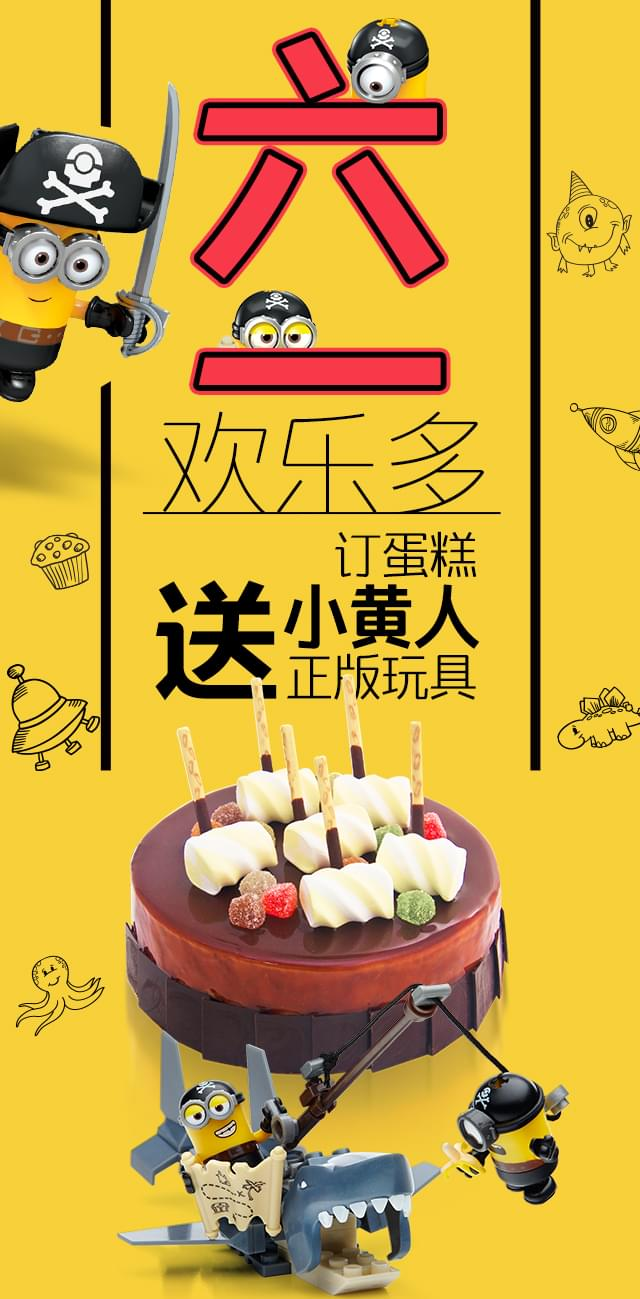
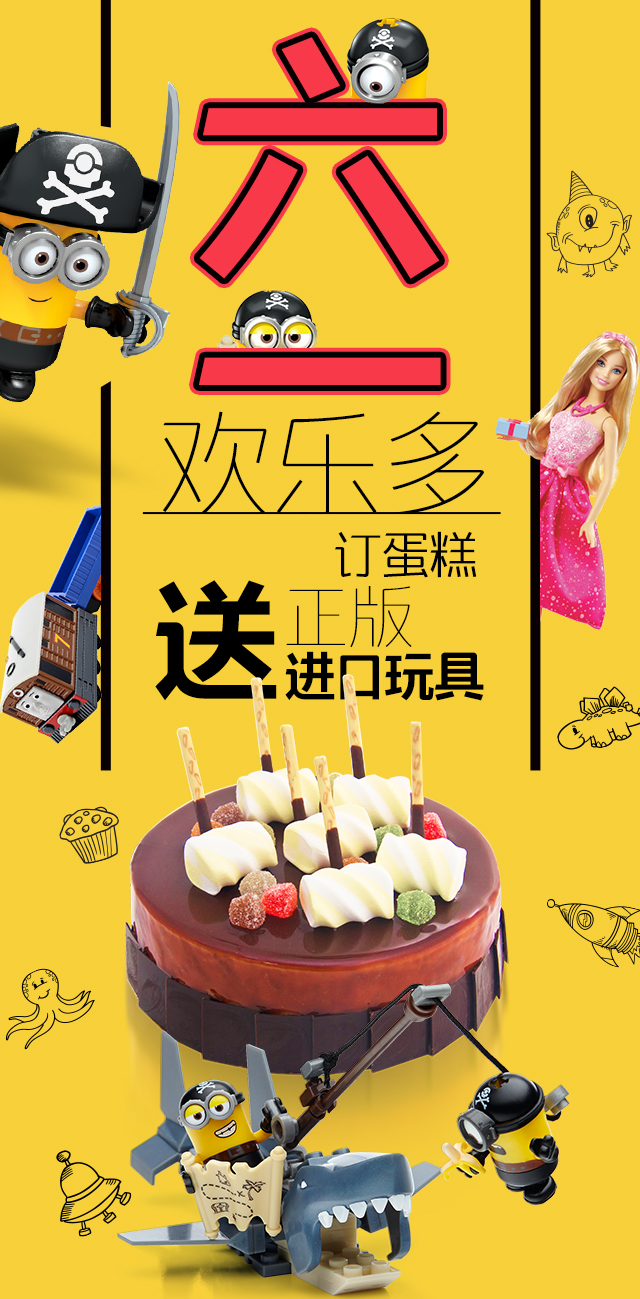
六一节活动

diff --git a/childrens-day-ssk.html b/childrens-day-ssk.html
@@ -1,0 +1,150 @@
+<!DOCTYPE html>
+<html lang="en">
+
+<head>
+    <meta charset="UTF-8">
+    <meta name="viewport" content="width=device-width,initial-scale=1.0,maximum-scale=1.0,user-scalable=no">
+    <meta name="format-detection" content="telephone=no" />
+    <title>六一欢乐多</title>
+    <link rel="stylesheet" type="text/css" href="assets/css/common_b.css" />
+    <link rel="stylesheet" type="text/css" href="assets/css/childrens-day.css" />
+</head>
+
+<body>
+    
+    <div id="loading">
+        <div class="content"><img src="assets/imgs/childrens-day/loading.gif" alt=""></div>
+    </div>
+
+    <header>
+        <img src="assets/imgs/logo_b.png" />
+        <a href="http://wap.incake.net"><img src="assets/imgs/return_b.png" /><span>返回首页</span></a>
+    </header>
+    <div class="content">
+        <div class="top">
+            <img src="assets/imgs/childrens-day/top.jpg" alt="">
+        </div>
+        <div class="center">
+            <img src="assets/imgs/childrens-day/center.jpg" alt="">
+            <div class="desc">
+                <p>活动期间，领取节日玩具券，使用节日玩具券正价订购蛋糕产品（小黄人蛋糕，晚礼芭比蛋糕除外），即可<span>免费获得进口正版玩具一套</span>。</p>
+            </div>
+            <a href="javascript:;" class="btn-buy"><!-- 跳转到蛋糕管 -->
+                <img src="assets/imgs/childrens-day/btn_buy_bg.png" alt="">
+                <div class="yellow-man"><img src="assets/imgs/childrens-day/yellow_man.png" alt=""></div>
+            </a>
+        </div>
+        <div class="bottom">
+            <div class="title"><img src="assets/imgs/childrens-day/bottom_title.jpg" alt=""></div>
+            <ul class="btn-list clearfix" id="btnList">
+                <li class="first-col">
+                    <a href="javascript:;" class="btn"><img src="assets/imgs/childrens-day/li1_btn.png" alt=""></a>
+                    <div class="bd">
+                        <img src="assets/imgs/childrens-day/li1_bg.png" alt="">
+                        <div class="bg"><img src="assets/imgs/childrens-day/li1_bd.png" alt=""></div>
+                    </div>
+                </li>
+                <li class="second-col">
+                    <a href="javascript:;" class="btn"><img src="assets/imgs/childrens-day/li2_btn.png" alt=""></a>
+                    <div class="bd">
+                        <img src="assets/imgs/childrens-day/li2_bg.png" alt="">
+                        <div class="bg"><img src="assets/imgs/childrens-day/li2_bd.png" alt=""></div>
+                    </div>
+                </li>
+                <li class="last-col">
+                    <a href="javascript:;" class="btn"><img src="assets/imgs/childrens-day/li3_btn.png" alt=""></a>
+                    <div class="bd">
+                        <img src="assets/imgs/childrens-day/li3_bg.png" alt="">
+                        <div class="bg"><img src="assets/imgs/childrens-day/li3_bd.png" alt=""></div>
+                    </div>
+                </li>
+            </ul>
+        </div>
+        <div class="cakes">
+            <div class="text">
+                <div class="inner">
+                    <h2>六一活动精选</h2>
+                    <p>订购小黄人蛋糕/晚礼芭比蛋糕，即可<span>免费获得指定款正版进口玩具一份</span>以及<span>价值189元蛋糕兑换券一张</span>。</p>
+                </div>
+            </div>
+            <div class="cake">
+                <img src="assets/imgs/childrens-day/cake1.jpg" alt="">
+                <a href="javascript:;" class="btn-buy"><img src="assets/imgs/childrens-day/btn_buy.png" alt=""></a>
+            </div>
+            <div class="cake">
+                <img src="assets/imgs/childrens-day/cake2.jpg" alt="">
+                <a href="javascript:;" class="btn-buy"><img src="assets/imgs/childrens-day/btn_buy.png" alt=""></a>
+            </div>
+        </div>
+        <div class="rules">
+            <dl>
+                <dt>活动规则：</dt>
+                <dd>1.活动期间使用玩具兑换券正价订购1磅以上蛋糕产品（小黄人蛋糕，晚礼芭比蛋糕除外），即可免费获得进口正版玩具一套；</dd>
+                <dd>2.订购小黄人蛋糕/晚礼芭比蛋糕，即可免费获得指定款正版进口玩具一份以及价值189元蛋糕兑换券一张；</dd>
+                <dd>3.本活动不与其他活动优惠同享，不可使用微信9折，不可使用优惠券代金卡；</dd>
+                <dd>4.玩具券一个用户可领一张，移动端领取并分享，可获得额外的一次领取机会；</dd>
+                <dd>5.活动时间：5月18日-6月1日；</dd>
+                <dd>6.配送时间：5月23日-6月3日；</dd>
+                <dd>7.本活动仅限上海苏州昆山地区。</dd>
+            </dl>
+        </div>
+    </div>
+    <footer>
+        <img src="assets/imgs/QrCode_b.jpg" />
+        <p>微信号：InCake_2012</p>
+        <p class="phone">400-921-5757</p>
+    </footer>
+
+    <!-- 遮罩 begin -->
+    <div id="mask">
+        
+        <!-- 注册弹出层 begin -->
+        <div class="mask mask-reg">
+            <div class="yellow-man"><img src="assets/imgs/childrens-day/mask_bg.png" alt=""></div>
+            <ul>
+                <li class="clearfix">
+                    <input type="text" class="txt-mobile" placeholder="请输入手机号码">
+                    <a href="javascript:;" class="btn-vcode">获取验证码</a>
+                </li>
+                <li><input type="text" class="txt-vcode" placeholder="请输入验证码"></li>
+                <li><input type="text" class="txt-name" placeholder="请输入您的名字"></li>
+                <li class="last"><a href="javascript:;" class="btn-reg">提 交</a></li>
+            </ul>
+        </div><!-- 注册弹出层 end -->
+        
+        <!-- 领券结果弹出层 begin -->
+        <div class="mask mask-result">
+            <div class="yellow-man"><img src="assets/imgs/childrens-day/mask_bg.png" alt=""></div>
+
+            <!-- 新用户 begin -->
+            <div class="result result-new">
+                <h2><i><img src="assets/imgs/childrens-day/icon_ok.png" alt=""></i>注册已成功</h2>
+                <p>提示：您的初始密码为您的手机号码后6位。</p>
+                <p class="notice">分享可再获一次领券机会</p>
+                <a href="javascript:;" class="btn-use">玩具券已到账，赶紧使用哦！</a><!-- 官网首页 -->
+            </div><!-- 新用户 end -->
+
+            <!-- 老用户 begin -->
+            <div class="result result-old">
+                <h2>您的玩具券已生成到账户</h2>
+                <p class="notice">分享可再获一次领券机会</p>
+                <a href="javascript:;" class="btn-view">点击查看优惠券信息</a><!-- 进入我的优惠券页面 -->
+            </div><!-- 老用户 end -->
+
+            <!-- 第二次分享 begin -->
+            <div class="result result-again">
+                <h2>您的玩具券已生成到账户</h2>
+                <a href="javascript:;" class="btn-view">点击查看优惠券信息</a><!-- 进入我的优惠券页面 -->
+            </div><!-- 第二次分享 end -->
+
+        </div><!-- 领券结果弹出层 end -->
+
+    </div><!-- 遮罩 end -->   
+    
+    <!-- 引入js -->
+    <script src="assets/js/jquery-2.1.4.min.js"></script>
+    <script src="assets/js/childrens-day.js"></script>
+
+</body>
+
+</html>

diff --git a/childrens-day-fxn.html b/childrens-day-fxn.html
@@ -27,8 +27,7 @@
         <div class="center">
             <img src="assets/imgs/childrens-day/center.jpg" alt="">
             <div class="desc">
-                <p>活动期间，领取节日玩具券，使用节日玩具券正价订购蛋糕产品（1.2磅及1.2磅以上蛋糕以及主题蛋糕），即可免费获得进口正版玩具一套。</p>
-                <p>使用节日玩具券订购GAW儿童节节日蛋糕以及星座蛋糕，可免费获得进口正版玩具一套，以及<span>价值189元的蛋糕兑换券一张。</span></p>
+                <p>活动期间，领取节日玩具券，使用节日玩具券正价订购1磅以上蛋糕产品，即可<span>免费获得进口正版玩具一套</span>。</p>
             </div>
             <a href="javascript:;" class="btn-buy"><!-- 跳转到蛋糕管 -->
                 <img src="assets/imgs/childrens-day/btn_buy_bg.png" alt="">
@@ -64,12 +63,12 @@
         <div class="rules">
             <dl>
                 <dt>活动规则：</dt>
-                <dd>1. 活动期间使用玩具兑换券正价订购蛋糕产品（1.2磅及1.2磅以上蛋糕以及主题蛋糕），即可免费获得进口正版玩具一套。使用节日玩具券订购GAW儿童节节日蛋糕以及星座蛋糕，可免费获得进口正版玩具一套，以及价值189元的蛋糕兑换券一张。</dd>
-                <dd>2. 本活动不与其他活动优惠同享，不可使用微信9折，不可使用优惠券代金卡。</dd>
-                <dd>3. 玩具券一个用户可领一张，移动端领取并分享，可获得额外的一次领取机会。</dd>
-                <dd>4. 活动时间：5月18日-6月1日</dd>
-                <dd>5. 配送时间：5月20日-6月3日</dd>
-                <dd>6. 本活动仅限上海/苏州/昆山/福州/厦门/无锡/南京/北京地区 。</dd>
+                <dd>1.活动期间使用玩具兑换券正价订购1磅以上蛋糕，即可免费获得进口正版玩具一套；</dd>
+                <dd>2.本活动不与其他活动优惠同享，不可使用微信9折，不可使用优惠券代金卡；</dd>
+                <dd>3.玩具券一个用户可领一张，移动端领取并分享，可获得额外的一次领取机会；</dd>
+                <dd>4.活动时间：5月18日-6月1日；</dd>
+                <dd>5.配送时间：5月23日-6月3日；</dd>
+                <dd>6.本活动仅限福州厦门南京地区。</dd>
             </dl>
         </div>
     </div>

diff --git a/assets/css/childrens-day.css b/assets/css/childrens-day.css
@@ -4,7 +4,7 @@ html, body { width: 100%; height: 100%; }
 .content .top { width: 100%; }
 .content .center { position: relative; width: 100%; }
 .content .center .desc { position: absolute; bottom: 0; left: 50%; width: 62.5%; -webkit-transform: translateX(-50%); transform: translateX(-50%); }
-.content .center .desc p { color: #000; font-size: 12px; line-height: 18px; text-indent: 2em; text-align: justify; }
+.content .center .desc p { color: #000; font-size: 14px; line-height: 24px; text-indent: 2em; text-align: justify; }
 .content .center .desc span { color: #f8394a; }
 .content .center .btn-buy { display: block; position: absolute; top: 0; left: 50%; width: 38.4375%; border: 2px solid #000; border-radius: 50%; -webkit-transform: translate(-50%, -12.19%); transform: translate(-50%, -12.19%); background-color: #f8394a; box-shadow: 1px 3px 2px 0 rgba(0, 0, 0, .5); }
 .content .center .btn-buy > img { -webkit-animation: 2s smooth infinite; animation: 2s smooth infinite; }
@@ -29,6 +29,15 @@ html, body { width: 100%; height: 100%; }
 .content .bottom .btn-list li .btn { display: block; }
 .content .bottom .btn-list li .bd { position: relative; }
 .content .bottom .btn-list li .bd .bg { position: absolute; bottom: 0; left: 0; width: 100%; }
+
+.content .cakes { width: 100%; background-color: #f7d03a; padding-bottom: 20px; }
+.content .cakes .text { width: 90%; margin: 0 auto; border-bottom: 1px solid #000; }
+.content .cakes .text .inner { width: 80%; margin: 0 auto; }
+.content .cakes .text h2 { text-align: center; color: #f8394a; line-height: 30px; }
+.content .cakes .text p { font-size: 14px; text-align: justify; color: #000; line-height: 24px; }
+.content .cakes .text p span { color: #f8394a; }
+.content .cakes .cake { position: relative; width: 100%; }
+.content .cakes .cake .btn-buy { display: block; position: absolute; bottom: 0; left: 50%; width: 50%; -webkit-transform: translateX(-50%); transform: translateX(-50%); }
 
 .content .rules { width: 100%; padding: 20px 0; background-color: #080103; color: #f7d03a; }
 .content .rules dl { width: 90%; margin: 0 auto; }
@@ -67,3 +76,4 @@ html, body { width: 100%; height: 100%; }
 #loading .content { position: absolute; left: 50%; top: 40%; width: 90%; -webkit-transform: translate(-50%, -50%); transform: translate(-50%, -50%); }
 #loading .content img { width: 100%; }
 /* loading end */
+

diff --git a/assets/css/freecake.css b/assets/css/freecake.css
@@ -78,13 +78,14 @@ html, body { width: 100%; height: 100%; }
 .container-wrapper .page4 { display: block; background: url("../imgs/freecake/page2_bg.png"); }
 .container-wrapper .page4 .banner { width: 100%; }
 .container-wrapper .page4 .frm-register { width: 100%; }
-.page4 .frm-register > ul { width: 100%; margin-top: 70px; }
+.page4 .frm-register > p { height: 28px; text-align: center; color: #f1cb34; font-size: 16px; padding: 20px 0; margin-top: 70px; }
+.page4 .frm-register > p .exists-notice { line-height: 28px; }
+.page4 .frm-register > p .exists-notice img { display: inline-block; width: 28px; height: 28px; margin-right: 10px; }
+.page4 .frm-register > ul { width: 100%; }
 .page4 .frm-register > ul li { width: 78.125%; height: 36px; margin: 0 auto; line-height: 36px; border-radius: 20px; border: 2px solid #f1cb34; background-color: #fbefbf; overflow: hidden; margin-bottom: 14px; }
 .page4 .frm-register > ul li:last-of-type { border: none; background: transparent; margin-bottom: none; }
 .page4 .frm-register > ul li input { width: 100%; height: 100%; border: none; outline: none; -webkit-appearance: none; text-indent: 2em; background-color: transparent; }
 .page4 .frm-register > ul li .btn-result { display: inline-block; width: 100%; height: 100%; background-color: #f1cb34; font-size: 16px; text-align: center; color: #3d2c28; }
-.page4 .frm-register > ul li .txt-mobile { float: left; width: 62%; }
-.page4 .frm-register > ul li .btn-vcode { float: right; position: relative; top: 4px; width: 36%; height: 28px; line-height: 28px; text-align: center; color: #fbefbf; margin-right: 2%; background-color: #e2a154; border-radius: 14px; }
 .container-wrapper .page4 .result { display: none; width: 100%; padding: 30px 0; color: #f1cb34; text-align: center; }
 .page4 .result .result-ok { display: block; }
 .page4 .result .result-ok > h3 { color: inherit; line-height: 30px; }

diff --git a/freecake-result.html b/freecake-result.html
@@ -23,13 +23,11 @@
 			</div>
 			<div class="content">
 				<div class="frm-register">
+					<p><span class="exists-notice"><img src="assets/imgs/freecake/frm_register_tip.png" alt="">输入手机号，查询您的领取蛋糕进度</span></p>
+					<!-- 该手机号未参加活动，请重新输入 -->
 					<ul>
-						<li class="clearfix">
-							<input type="text" class="txt-mobile" placeholder="请输入手机号码">
-							<a href="javascript:;" class="btn-vcode">获取验证码</a>
-						</li>
 						<li>
-							<input type="text" class="txt-vcode" placeholder="请输入验证码">
+							<input type="text" class="txt-mobile" placeholder="请输入手机号码">
 						</li>
 						<li>
 							<a href="javascript:;" class="btn-result">查 询</a>
